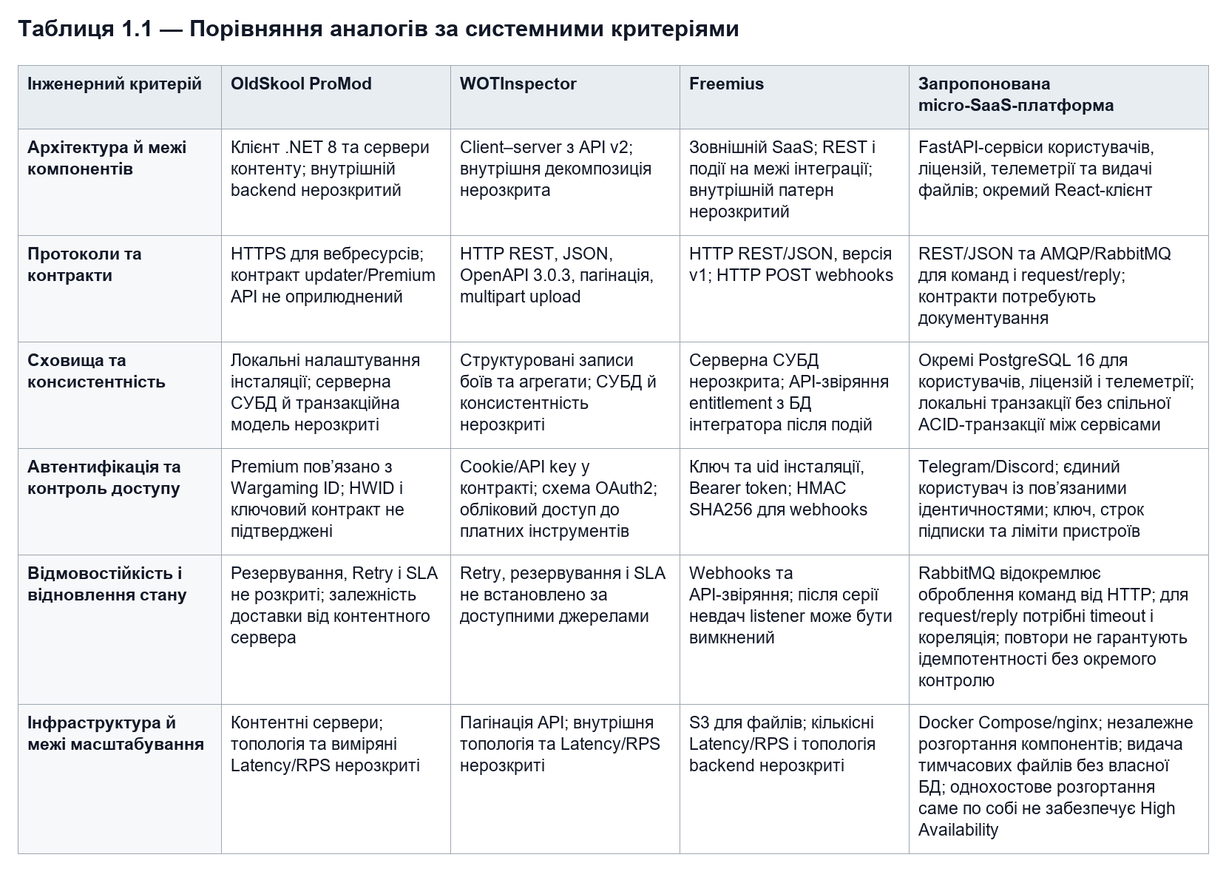
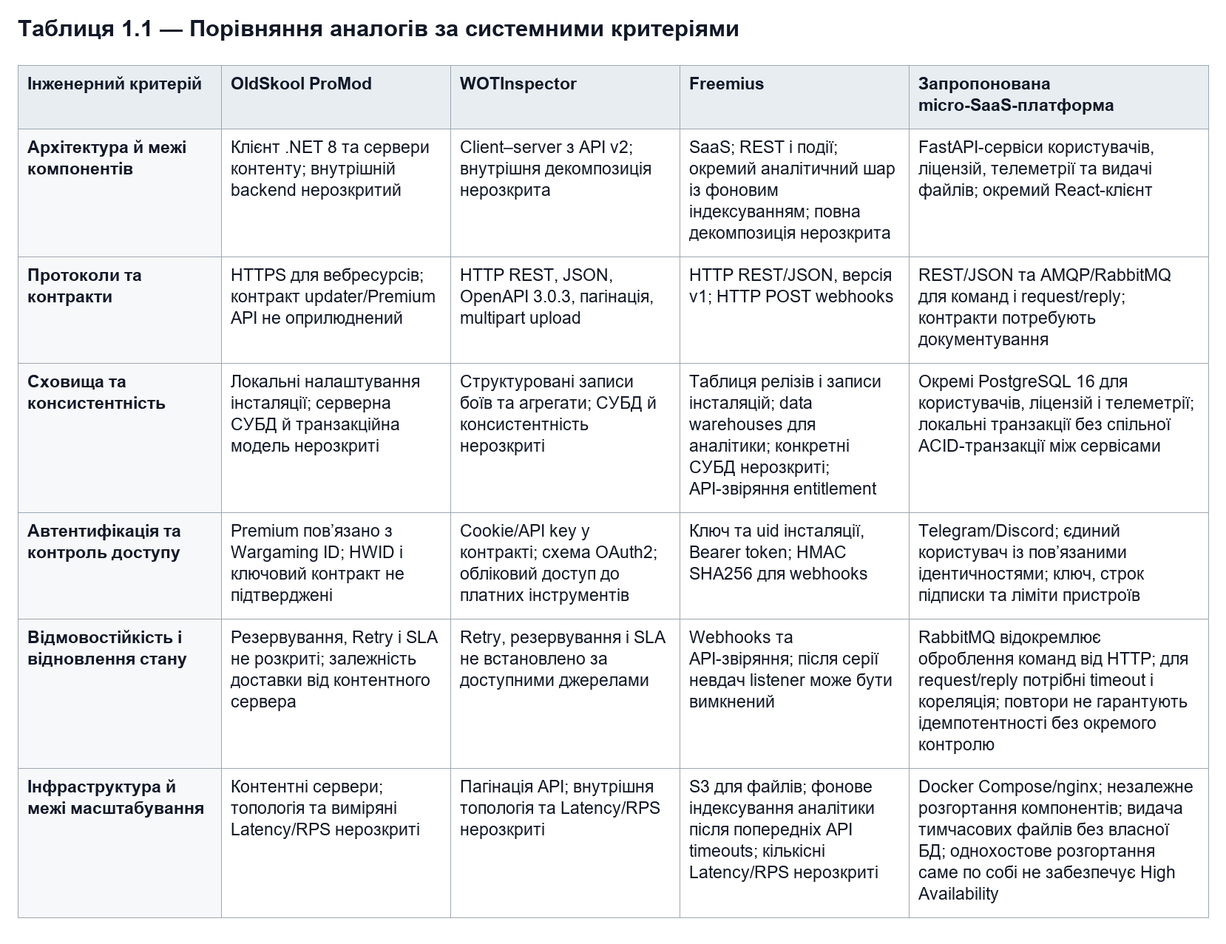
docs: substantiate Freemius analytics architecture and historical bottlenecks

diff --git a/docs/1_analysis.md b/docs/1_analysis.md
@@ -28,13 +28,13 @@
 
 ### 1.2.3 Freemius
 
-**Архітектура та масштабування.** Freemius надає зовнішню SaaS-інфраструктуру для ліцензування, підписок, розповсюдження та інтеграції цифрових продуктів. Документовано REST API та передачу подій у backend продукту через webhooks. На межі інтеграції підтверджено поєднання синхронних запитів із подієвою взаємодією; внутрішню реалізацію Freemius як моноліту або мікросервісів не розкрито. [SaaS integration](https://freemius.com/help/documentation/saas/saas-integration/).
+**Архітектура та масштабування.** Freemius надає зовнішню SaaS-інфраструктуру для ліцензування, підписок, розповсюдження та інтеграції цифрових продуктів. Документовано REST API та передачу подій у backend продукту через webhooks. На межі інтеграції підтверджено поєднання синхронних запитів із подієвою взаємодією; повну сервісну декомпозицію Freemius не розкрито. В описі оновлення від 30.12.2022 документовано окремий аналітичний шар із фоновим індексуванням сирих даних у data warehouses. Це підтверджує розмежування аналітичного оброблення, але не встановлює мікросервісної будови всієї платформи. [Архітектурні зміни аналітики](https://freemius.com/blog/release-notes-real-time-analytics-and-multi-store-dashboard/). [SaaS integration](https://freemius.com/help/documentation/saas/saas-integration/).
 
 **Протоколи та доступ.** Для активації наведено POST `/v1/products/{product_id}/licenses/activate.json` з ліцензійним ключем та `uid` інсталяції. Початкова активація не потребує заголовка Authorization; отриманий `install_api_token` використовується як Bearer token у наступних автентифікованих запитах. `uid` формується клієнтом і сам по собі не доводить апаратного HWID-контролю. Події ліцензій передаються через HTTP POST; для перевірки джерела документовано `x-signature` та HMAC SHA256 за вихідним тілом запиту. [Активація](https://freemius.com/help/api/licenses/activate/), [webhooks](https://freemius.com/help/documentation/saas/events-webhooks/).
 
-**Дані та консистентність.** Через API доступні ліцензії, інсталяції, користувачі й підписки. Тип основної СУБД, схема реплікації та рівні ізоляції транзакцій не розкриті. Для SaaS інтеграції рекомендовано після події отримати актуальний стан через API й оновити entitlement у власній БД; для видаленої ліцензії — прибрати доступ. Така синхронізація створює залежність між двома станами, тому потрібні перевірка повторних подій та звіряння після переривання доставки; це вимоги до інтегратора, а не підтвердження глобальної ACID-транзакції. [Ліцензії](https://freemius.com/help/api/licenses/), [синхронізація SaaS](https://freemius.com/help/documentation/saas/saas-integration/).
+**Дані та консистентність.** Через API доступні ліцензії, інсталяції, користувачі й підписки. Для Staged Rollouts документовано записи ліцензованих інсталяцій, таблицю релізів і поля `last_served_update_version`, `limit`, `uniques`, за якими керується поступова видача оновлень. Це характеризує модель даних розповсюдження, але не визначає конкретну СУБД. Основну СУБД, технологію data warehouses, реплікацію та рівні ізоляції транзакцій не названо. [Модель даних Staged Rollouts](https://freemius.com/blog/staged-rollouts-wordpress-plugins-themes/). Для SaaS інтеграції рекомендовано після події отримати актуальний стан через API й оновити entitlement у власній БД; для видаленої ліцензії — прибрати доступ. Така синхронізація створює залежність між двома станами, тому потрібні перевірка повторних подій та звіряння після переривання доставки; це вимоги до інтегратора, а не підтвердження глобальної ACID-транзакції. [Ліцензії](https://freemius.com/help/api/licenses/), [синхронізація SaaS](https://freemius.com/help/documentation/saas/saas-integration/).
 
-**Інженерні обмеження.** У документації активації визначено помилки простроченого ключа, вичерпаної квоти та вже активованої інсталяції; остання може сигналізувати про розсинхронізацію клієнта. У журналі від 30.12.2025 задокументовано автоматичне вимкнення webhook listener після понад 100 невдалих доставок і виправлення помилки скидання лічильника відмов. Виправлену помилку не подано як чинну вразливість. Для інтегратора зберігається ризик пропуску змін доступу під час вимкнення listener, тому потрібне відновлення синхронізації. Файли зберігаються в Amazon S3 та видаються через захищений API; це не встановлює стек бази даних або SLA всієї платформи. [Оброблення помилок активації](https://freemius.com/help/api/licenses/activate/), [webhook recovery](https://freemius.com/changelog/improved-webhook-failure-detection-and-recovery/), [розповсюдження файлів](https://freemius.com/help/faq/licensing/).
+**Інженерні обмеження.** Для попередньої реалізації аналітики команда Freemius задокументувала зростання навантаження від прямих запитів до БД, збої dashboard та API timeouts. Перехід до фонового індексування в окремому аналітичному шарі описано як усунення цієї проблеми; її не подано як чинний дефект платформи. [Попередній bottleneck і його усунення](https://freemius.com/blog/release-notes-real-time-analytics-and-multi-store-dashboard/). У документації активації визначено помилки простроченого ключа, вичерпаної квоти та вже активованої інсталяції; остання може сигналізувати про розсинхронізацію клієнта. У журналі від 30.12.2025 задокументовано автоматичне вимкнення webhook listener після понад 100 невдалих доставок і виправлення помилки скидання лічильника відмов. Виправлену помилку не подано як чинну вразливість. Для інтегратора зберігається ризик пропуску змін доступу під час вимкнення listener, тому потрібне відновлення синхронізації. Файли зберігаються в Amazon S3 та видаються через захищений API; це не встановлює стек бази даних або SLA всієї платформи. [Оброблення помилок активації](https://freemius.com/help/api/licenses/activate/), [webhook recovery](https://freemius.com/changelog/improved-webhook-failure-detection-and-recovery/), [розповсюдження файлів](https://freemius.com/help/faq/licensing/).
 
 ### 1.2.4 Порівняльна інженерна матриця
 
@@ -42,16 +42,16 @@
 
 | Інженерний критерій | OldSkool ProMod | WOTInspector | Freemius | Запропонована micro-SaaS-платформа |
 | --- | --- | --- | --- | --- |
-| Архітектура й межі компонентів | Клієнт .NET 8 та сервери контенту; внутрішній backend нерозкритий | Client–server з API v2; внутрішня декомпозиція нерозкрита | Зовнішній SaaS; REST і події на межі інтеграції; внутрішній патерн нерозкритий | FastAPI-сервіси користувачів, ліцензій, телеметрії та видачі файлів; окремий React-клієнт |
+| Архітектура й межі компонентів | Клієнт .NET 8 та сервери контенту; внутрішній backend нерозкритий | Client–server з API v2; внутрішня декомпозиція нерозкрита | SaaS; REST і події; окремий аналітичний шар із фоновим індексуванням; повна декомпозиція нерозкрита | FastAPI-сервіси користувачів, ліцензій, телеметрії та видачі файлів; окремий React-клієнт |
 | Протоколи та контракти | HTTPS для вебресурсів; контракт updater/Premium API не оприлюднений | HTTP REST, JSON, OpenAPI 3.0.3, пагінація, multipart upload | HTTP REST/JSON, версія v1; HTTP POST webhooks | REST/JSON та AMQP/RabbitMQ для команд і request/reply; контракти потребують документування |
-| Сховища та консистентність | Локальні налаштування інсталяції; серверна СУБД й транзакційна модель нерозкриті | Структуровані записи боїв та агрегати; СУБД й консистентність нерозкриті | Серверна СУБД нерозкрита; API-звіряння entitlement з БД інтегратора після подій | Окремі PostgreSQL 16 для користувачів, ліцензій і телеметрії; локальні транзакції без спільної ACID-транзакції між сервісами |
+| Сховища та консистентність | Локальні налаштування інсталяції; серверна СУБД й транзакційна модель нерозкриті | Структуровані записи боїв та агрегати; СУБД й консистентність нерозкриті | Таблиця релізів і записи інсталяцій; data warehouses для аналітики; конкретні СУБД нерозкриті; API-звіряння entitlement | Окремі PostgreSQL 16 для користувачів, ліцензій і телеметрії; локальні транзакції без спільної ACID-транзакції між сервісами |
 | Автентифікація та контроль доступу | Premium пов’язано з Wargaming ID; HWID і ключовий контракт не підтверджені | Cookie/API key у контракті; схема OAuth2; обліковий доступ до платних інструментів | Ключ та uid інсталяції, Bearer token; HMAC SHA256 для webhooks | Telegram/Discord; єдиний користувач із пов’язаними ідентичностями; ключ, строк підписки та ліміти пристроїв |
 | Відмовостійкість і відновлення стану | Резервування, Retry і SLA не розкриті; залежність доставки від контентного сервера | Retry, резервування і SLA не встановлено за доступними джерелами | Webhooks та API-звіряння; після серії невдач listener може бути вимкнений | RabbitMQ відокремлює оброблення команд від HTTP; для request/reply потрібні timeout і кореляція; повтори не гарантують ідемпотентності без окремого контролю |
-| Інфраструктура й межі масштабування | Контентні сервери; топологія та виміряні Latency/RPS нерозкриті | Пагінація API; внутрішня топологія та Latency/RPS нерозкриті | S3 для файлів; кількісні Latency/RPS і топологія backend нерозкриті | Docker Compose/nginx; незалежне розгортання компонентів; видача тимчасових файлів без власної БД; однохостове розгортання саме по собі не забезпечує High Availability |
+| Інфраструктура й межі масштабування | Контентні сервери; топологія та виміряні Latency/RPS нерозкриті | Пагінація API; внутрішня топологія та Latency/RPS нерозкриті | S3 для файлів; фонове індексування аналітики після попередніх API timeouts; кількісні Latency/RPS нерозкриті | Docker Compose/nginx; незалежне розгортання компонентів; видача тимчасових файлів без власної БД; однохостове розгортання саме по собі не забезпечує High Availability |
 
 #### Аналітичний висновок підрозділу
 
-За результатами порівняння встановлено, що в ProMod інфраструктуру орієнтовано на доставку ігрових модифікацій та обліковий Premium-доступ, а у WOTInspector — на API ігрових даних та доступ до аналітичних інструментів. Для запропонованої платформи доцільно використати принцип відокремлення клієнтського продукту від сервера розповсюдження та версіонованих контрактів оброблення статистики. У Freemius документовано керування entitlement через API й події; цей підхід враховано при розмежуванні ліцензування та видачі файлів. Водночас наявність відкритого API або зовнішньої ідентичності не підтверджує підтримки необхідного поєднання Telegram/Discord, збереження формату ключів замовника та правил прив’язування пристроїв. Внутрішні архітектури аналогів не класифіковано як застарілі без доказів.
+За результатами порівняння встановлено, що в ProMod інфраструктуру орієнтовано на доставку ігрових модифікацій та обліковий Premium-доступ, а у WOTInspector — на API ігрових даних та доступ до аналітичних інструментів. Для запропонованої платформи доцільно використати принцип відокремлення клієнтського продукту від сервера розповсюдження та версіонованих контрактів оброблення статистики. У Freemius документовано керування entitlement через API й події та винесення аналітики в окремий шар після API timeouts від прямих запитів до БД. Для власної платформи враховано принцип відокремлення статистичного оброблення від критичних операцій доступу; реалізація універсального data warehouse не передбачається. Водночас наявність відкритого API або зовнішньої ідентичності не підтверджує підтримки необхідного поєднання Telegram/Discord, збереження формату ключів замовника та правил прив’язування пристроїв. Внутрішні архітектури аналогів не класифіковано як застарілі без доказів.
 
 Для цих вимог обґрунтовано декомпозицію на FastAPI-сервіси з окремими PostgreSQL-сховищами: правила доступу зосереджуються в сервісі ліцензій, а приймання телеметрії та підготовка файлів відокремлюються від обліку користувачів. Реляційні обмеження й локальні транзакції застосовуються для перевірки стану активацій і підписок; RabbitMQ використовується для передавання команд між компонентами, зокрема підготовки платного файлу. Це дає можливість пристосувати контракти та дані до одного готового продукту без перенесення правил доступу в клієнтський інтерфейс або підпорядкування їх універсальній моделі SaaS-провайдера. Перевагу такого стеку визначено відповідністю спеціалізованим вимогам та контролем над станом ліцензій, а не непідтвердженою перевагою Latency/RPS. Вбудоване приймання платежів не передбачається: придбання відбувається через зовнішні канали.
 
